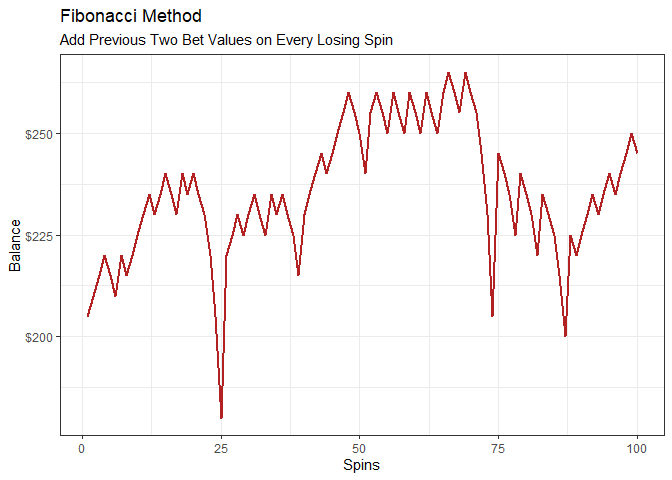
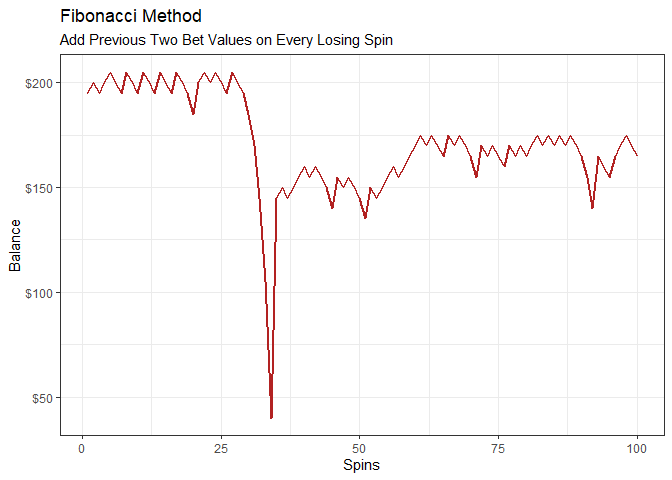
Add files via upload

diff --git a/Roulette Simulation.md b/Roulette Simulation.md
@@ -52,16 +52,16 @@ spins %>% head(10)
     ## # Groups:   color [2]
     ##    spin_number color   bet all_green all_red all_black green_balance red_balance
     ##          <int> <chr> <dbl>     <dbl>   <dbl>     <dbl>         <dbl>       <dbl>
-    ##  1           1 Red       5        -5       5        -5            95         105
-    ##  2           2 Red       5        -5       5        -5            90         110
-    ##  3           3 Red       5        -5       5        -5            85         115
-    ##  4           4 Black     5        -5      -5         5            80         110
-    ##  5           5 Red       5        -5       5        -5            75         115
-    ##  6           6 Red       5        -5       5        -5            70         120
-    ##  7           7 Red       5        -5       5        -5            65         125
-    ##  8           8 Red       5        -5       5        -5            60         130
-    ##  9           9 Red       5        -5       5        -5            55         135
-    ## 10          10 Red       5        -5       5        -5            50         140
+    ##  1           1 Black     5        -5      -5         5            95          95
+    ##  2           2 Black     5        -5      -5         5            90          90
+    ##  3           3 Red       5        -5       5        -5            85          95
+    ##  4           4 Black     5        -5      -5         5            80          90
+    ##  5           5 Red       5        -5       5        -5            75          95
+    ##  6           6 Red       5        -5       5        -5            70         100
+    ##  7           7 Red       5        -5       5        -5            65         105
+    ##  8           8 Black     5        -5      -5         5            60         100
+    ##  9           9 Red       5        -5       5        -5            55         105
+    ## 10          10 Black     5        -5      -5         5            50         100
     ## # ℹ 3 more variables: black_balance <dbl>, streak <dbl>, freq <int>
 
 To ensure the random sampling is valid, the below graph shows the
@@ -95,21 +95,25 @@ spins %>%
   group_by(color,streak) %>% 
   summarise(spins = n()) %>% 
   pivot_wider(names_from = color,values_from = spins,values_fill = 0) %>% 
-  janitor::adorn_percentages("col") %>% as_tibble() %>% round(2) %>% filter(streak < 6)
+  janitor::adorn_percentages("col") %>% as_tibble() %>% round(2)
 ```
 
     ## `summarise()` has grouped output by 'color'. You can override using the
     ## `.groups` argument.
 
-    ## # A tibble: 6 × 4
-    ##   streak Black Green   Red
-    ##    <dbl> <dbl> <dbl> <dbl>
-    ## 1      0  0.54  0.95  0.56
-    ## 2      1  0.25  0.05  0.24
-    ## 3      2  0.11  0     0.1 
-    ## 4      3  0.05  0     0.04
-    ## 5      4  0.02  0     0.02
-    ## 6      5  0.01  0     0.02
+    ## # A tibble: 10 × 4
+    ##    streak Black Green   Red
+    ##     <dbl> <dbl> <dbl> <dbl>
+    ##  1      0  0.5   0.97  0.51
+    ##  2      1  0.26  0.03  0.23
+    ##  3      2  0.12  0     0.12
+    ##  4      3  0.05  0     0.06
+    ##  5      4  0.03  0     0.04
+    ##  6      5  0.02  0     0.02
+    ##  7      6  0.01  0     0.01
+    ##  8      7  0     0     0.01
+    ##  9      8  0     0     0   
+    ## 10      9  0     0     0
 
 ### Simulation 1 - Constant Amount
 
@@ -173,8 +177,7 @@ triangle %>% head(10)
     ## 10   10       2048
 
 I’ll simulate 100 spins of the wheel with a beginning balance of \$200
-and a \$4 baseline bet (2% of total - the 2% ratio seems to be the best
-balance of risk/reward).
+and a \$4 baseline bet.
 
 ``` r
 begn_balance = 200
@@ -199,17 +202,17 @@ mutate(streak = coalesce(case_when(color == "Red" & lag(color) == "Red" ~ 1,
 spins %>% head(10)
 ```
 
-    ##    spin_number color streak red_bet  PL balance
-    ## 1            1   Red      1       4   4     204
-    ## 2            2 Black      1       4  -4     200
-    ## 3            3 Black      2       8  -8     192
-    ## 4            4 Green      3      16 -16     176
-    ## 5            5 Green      4      32 -32     144
-    ## 6            6   Red      5      64  64     208
-    ## 7            7 Black      1       4  -4     204
-    ## 8            8 Green      2       8  -8     196
-    ## 9            9   Red      3      16  16     212
-    ## 10          10 Black      1       4  -4     208
+    ##    spin_number color streak red_bet PL balance
+    ## 1            1 Black      1       4 -4     196
+    ## 2            2   Red      2       8  8     204
+    ## 3            3 Black      1       4 -4     200
+    ## 4            4 Black      2       8 -8     192
+    ## 5            5   Red      3      16 16     208
+    ## 6            6   Red      1       4  4     212
+    ## 7            7   Red      1       4  4     216
+    ## 8            8   Red      1       4  4     220
+    ## 9            9 Black      1       4 -4     216
+    ## 10          10 Black      2       8 -8     208
 
 ``` r
 ggplot(spins) +
@@ -248,17 +251,17 @@ spins %>%
 ```
 
     ## # A tibble: 9 × 2
-    ##   Metric                       Value
-    ##   <chr>                        <dbl>
-    ## 1 Max Bet                         64
-    ## 2 Minimum Balance                144
-    ## 3 Largest Loss (Single Spin)     -32
-    ## 4 Largest Win (Single Spin)       64
-    ## 5 Longest Unfavorable Run          4
-    ## 6 Bet Amount - Median              4
-    ## 7 Bet Amount - 75th Percentile     8
-    ## 8 Bet Amount - 95th Percentile    32
-    ## 9 Max Drawdown                   -56
+    ##   Metric                        Value
+    ##   <chr>                         <dbl>
+    ## 1 Max Bet                       256  
+    ## 2 Minimum Balance                56  
+    ## 3 Largest Loss (Single Spin)   -128  
+    ## 4 Largest Win (Single Spin)     256  
+    ## 5 Longest Unfavorable Run         6  
+    ## 6 Bet Amount - Median             8  
+    ## 7 Bet Amount - 75th Percentile   16  
+    ## 8 Bet Amount - 95th Percentile   67.2
+    ## 9 Max Drawdown                 -144
 
 ### Simulation 3 - Fibonacci
 
@@ -268,7 +271,7 @@ values.
 ``` r
 base_bet = 5
 
-n <- 15
+n <- 20
 fib <- numeric(n)
 fib[1] <- base_bet
 fib[2] <- base_bet
@@ -298,6 +301,11 @@ fib
     ## 13       1165   13            3045
     ## 14       1885   14            4930
     ## 15       3050   15            7980
+    ## 16       4935   16           12915
+    ## 17       7985   17           20900
+    ## 18      12920   18           33820
+    ## 19      20905   19           54725
+    ## 20      33825   20           88550
 
 ``` r
 begn_balance = 200
@@ -322,16 +330,16 @@ spins %>% head(10)
 ```
 
     ##    spin_number color streak red_bet rolling_fib_amt PL balance
-    ## 1            1   Red      1       5               5  5     205
-    ## 2            2   Red      1       5               5  5     210
-    ## 3            3   Red      1       5               5  5     215
-    ## 4            4   Red      1       5               5  5     220
-    ## 5            5 Black      1       5               5 -5     215
-    ## 6            6 Black      2       5              10 -5     210
-    ## 7            7   Red      3      10              20 10     220
-    ## 8            8 Black      1       5               5 -5     215
-    ## 9            9   Red      2       5              10  5     220
-    ## 10          10   Red      1       5               5  5     225
+    ## 1            1 Black      1       5               5 -5     195
+    ## 2            2   Red      2       5              10  5     200
+    ## 3            3 Black      1       5               5 -5     195
+    ## 4            4   Red      2       5              10  5     200
+    ## 5            5   Red      1       5               5  5     205
+    ## 6            6 Black      1       5               5 -5     200
+    ## 7            7 Black      2       5              10 -5     195
+    ## 8            8   Red      3      10              20 10     205
+    ## 9            9 Black      1       5               5 -5     200
+    ## 10          10 Black      2       5              10 -5     195
 
 ``` r
 ggplot(spins) +
@@ -370,36 +378,56 @@ spins %>%
 ```
 
     ## # A tibble: 9 × 2
-    ##   Metric                       Value
-    ##   <chr>                        <dbl>
-    ## 1 Max Bet                       40  
-    ## 2 Minimum Balance              180  
-    ## 3 Largest Loss (Single Spin)   -25  
-    ## 4 Largest Win (Single Spin)     40  
-    ## 5 Longest Unfavorable Run        5  
-    ## 6 Bet Amount - Median            5  
-    ## 7 Bet Amount - 75th Percentile  10  
-    ## 8 Bet Amount - 95th Percentile  15.5
-    ## 9 Max Drawdown                 -20
+    ##   Metric                         Value
+    ##   <chr>                          <dbl>
+    ## 1 Max Bet                       105   
+    ## 2 Minimum Balance                40   
+    ## 3 Largest Loss (Single Spin)    -65   
+    ## 4 Largest Win (Single Spin)     105   
+    ## 5 Longest Unfavorable Run         7   
+    ## 6 Bet Amount - Median             5   
+    ## 7 Bet Amount - 75th Percentile    6.25
+    ## 8 Bet Amount - 95th Percentile   15.5 
+    ## 9 Max Drawdown                 -160
 
-### Simulation 4 - Consecutive Color Contrarian
+### Simulation 4 - Martindale & Consecutive Color Contrarian
 
-If the spins are truly random, any run of more than two (zero being the
-beginning of a new trend), has very low odds. Below table simulates
-betting the opposite color on streaks greater than 1. No action is taken
-when green appears more than once.
-
-This method involves taking a betting increment and allocating 90% to
-the inverse color and 10% to green as “insurance”. In this case I use a
-\$10 increment; \$9 is allotted to the inverse color of the streak, and
-\$1 is allocated to green. I made this simulation for 1,000 spins
-instead of 100 considered bets aren’t taking place on most spins.
+This method combines the Martingale strategy with betting against the
+trend. After 2 colors appear in a row, a bet is placed on the opposite
+color for \$20, and increses in a doubling sequence (per the Martingale
+strategy). 100 spins simulated below.
 
 ``` r
-increment = 10
+pascalTriangle <- function(h) {
+    lapply(0:h, function(i) choose(i, 0:i))
+}
+
+base_bet = 20
+
+triangle = unlist(lapply(pascalTriangle(25), sum)) %>% as.data.frame() %>% mutate(row_number()) %>% 
+  rename(factor_increase = 1,spin =2) %>% 
+  mutate(bet_amount = base_bet*factor_increase) %>% select(spin,bet_amount)
+
+triangle %>% head(10)
+```
+
+    ##    spin bet_amount
+    ## 1     1         20
+    ## 2     2         40
+    ## 3     3         80
+    ## 4     4        160
+    ## 5     5        320
+    ## 6     6        640
+    ## 7     7       1280
+    ## 8     8       2560
+    ## 9     9       5120
+    ## 10   10      10240
+
+``` r
+begn_balance = 500
 
 spins = data.frame(
-spin_number = paste0(seq(1:1000))) %>% 
+spin_number = paste0(seq(1:100))) %>% 
 mutate(color = sample(c("Black","Red","Green"),
                        nrow(.),
                        prob=c(.4734,.4734,.0532),
@@ -408,31 +436,27 @@ mutate(color = sample(c("Black","Red","Green"),
 mutate(streak=sequence(rle(color)$lengths) - 1) %>% 
 ungroup() %>% 
 mutate(prev_run = lag(streak),
-       PL = case_when(lag(color) != color & 
-                        lag(color) != "Green" & 
-                        color != "Green" &
-                        prev_run >= 1 ~ increment - (increment *0.1),
-                      
-                      lag(color) != color & color == "Green" & prev_run >= 1 ~ ((increment*0.1)*17)-(increment - (increment *0.1)),
-                      lag(color) == color & prev_run >= 1 ~ -increment,
-                      prev_run < 1 | lag(color) == "Green" ~ 0)) %>% 
+       action = case_when(lag(color) != "Green" & prev_run >= 2 ~ "Bet",
+                      .default = "No Bet")) %>% 
   replace(is.na(.), 0) %>% 
-  mutate(balance = begn_balance+cumsum(PL))
+     left_join(triangle,by=c("prev_run"="spin")) %>% 
+  mutate(PL = if_else(color != lag(color),bet_amount,-bet_amount),
+    balance = begn_balance+cumsum(coalesce(PL,0)))
 
 spins %>% head(10)
 ```
 
-    ##    spin_number color streak prev_run  PL balance
-    ## 1            1   Red      0        0   0     200
-    ## 2            2 Black      0        0   0     200
-    ## 3            3   Red      0        0   0     200
-    ## 4            4   Red      1        0   0     200
-    ## 5            5   Red      2        1 -10     190
-    ## 6            6   Red      3        2 -10     180
-    ## 7            7 Black      0        3   9     189
-    ## 8            8   Red      0        0   0     189
-    ## 9            9   Red      1        0   0     189
-    ## 10          10   Red      2        1 -10     179
+    ##    spin_number color streak prev_run action bet_amount  PL balance
+    ## 1            1 Black      0        0 No Bet         NA  NA     500
+    ## 2            2 Black      1        0 No Bet         NA  NA     500
+    ## 3            3 Black      2        1 No Bet         20 -20     480
+    ## 4            4   Red      0        2    Bet         40  40     520
+    ## 5            5 Black      0        0 No Bet         NA  NA     520
+    ## 6            6 Black      1        0 No Bet         NA  NA     520
+    ## 7            7 Black      2        1 No Bet         20 -20     500
+    ## 8            8 Green      0        2    Bet         40  40     540
+    ## 9            9   Red      0        0 No Bet         NA  NA     540
+    ## 10          10 Black      0        0 No Bet         NA  NA     540
 
 ``` r
 ggplot(spins) +
@@ -444,9 +468,38 @@ ggplot(spins) +
   labs(
     x = "Spins",
     y = "Balance",
-    title = "Color Contrarian Method",
-    subtitle = "Bet against the current streak on opposite color"
+    title = "Martingale & Color Contrarian Method",
+    subtitle = "Bet against the current streak on opposite color with doubling amounts on losing spin"
   )
 ```
 
-![](Roulette_files/figure-gfm/unnamed-chunk-14-1.png)<!-- -->
+![](Roulette_files/figure-gfm/unnamed-chunk-15-1.png)<!-- -->
+
+``` r
+spins %>% 
+  summarise(`Max Bet` = max(bet_amount),
+            `Minimum Balance` = min(balance),
+            `Largest Loss (Single Spin)` = min(PL,na.rm = T),
+            `Largest Win (Single Spin)` = max(PL,na.rm = T),
+            `Longest Unfavorable Run` = max(streak,na.rm = T) - 1,
+            `Bet Amount - Median` = median(bet_amount,na.rm=T),
+            `Bet Amount - 75th Percentile` = quantile(bet_amount,.75,na.rm=T),
+            `Bet Amount - 95th Percentile` = quantile(bet_amount,.95,na.rm = T)
+            ) %>% 
+  mutate(`Max Drawdown` = -(begn_balance - `Minimum Balance`)) %>% 
+  pivot_longer(cols = everything()) %>%
+  rename(Metric = 1, Value = 2)
+```
+
+    ## # A tibble: 9 × 2
+    ##   Metric                       Value
+    ##   <chr>                        <dbl>
+    ## 1 Max Bet                        NA 
+    ## 2 Minimum Balance               480 
+    ## 3 Largest Loss (Single Spin)   -160 
+    ## 4 Largest Win (Single Spin)     320 
+    ## 5 Longest Unfavorable Run         4 
+    ## 6 Bet Amount - Median            20 
+    ## 7 Bet Amount - 75th Percentile   40 
+    ## 8 Bet Amount - 95th Percentile  152.
+    ## 9 Max Drawdown                  -20
